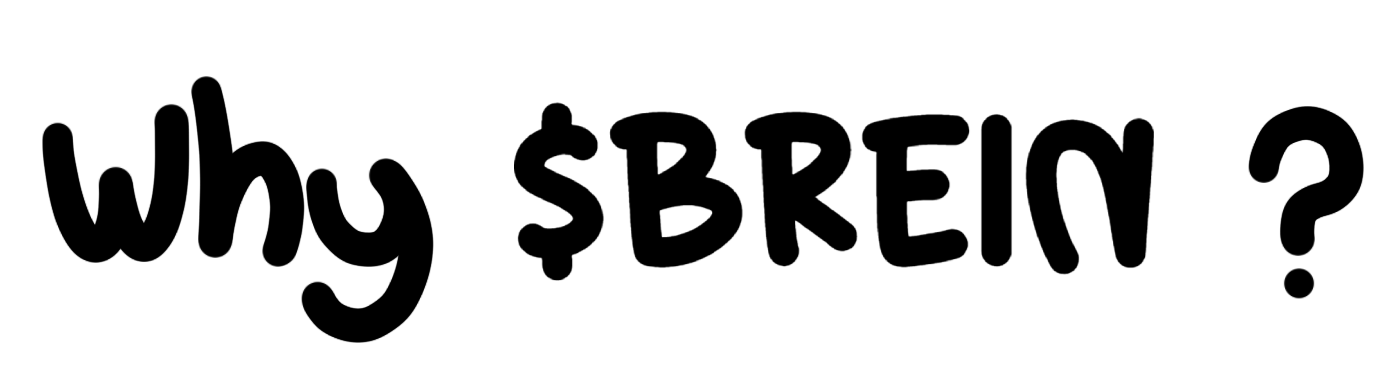
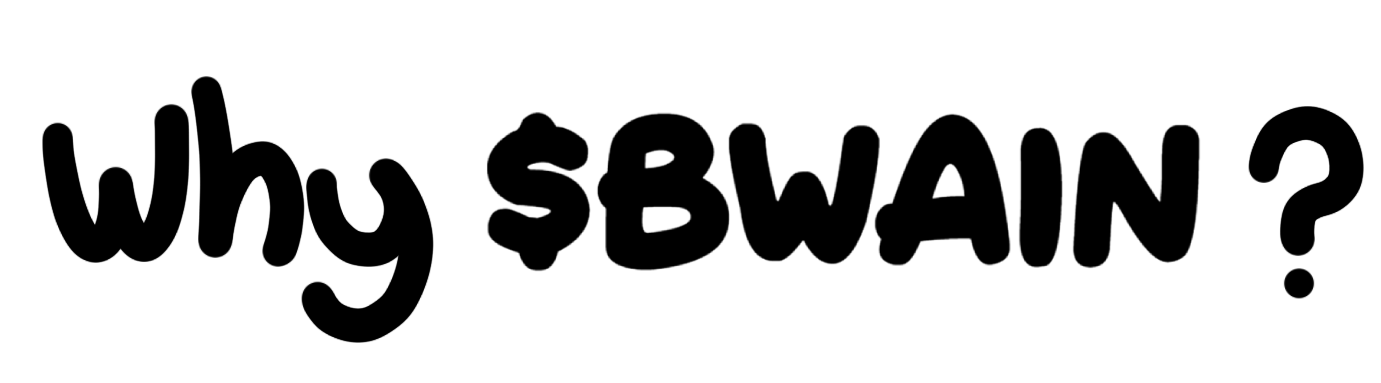
1

Changed region(s): [[0.3425, 0.2585, 0.8718, 0.7467]]

diff --git a/index.html b/index.html
@@ -9,8 +9,8 @@
 <meta http-equiv="Expires" content="0" />
     <link rel="icon" href="./assets/logo1.png" type="image/png">
     <link rel="apple-touch-icon" href="./assets/logo1.png">
-    <title>BREIN</title>
-    <meta name="description" content="BREIN is a cheeky, sarcastic genius representing your inner thoughts on the Solana network." />
+    <title>BWAIN</title>
+    <meta name="description" content="BWAIN is a cheeky, sarcastic genius representing your inner thoughts on the Solana network." />
   
     <link rel="preconnect" href="https://fonts.googleapis.com">
     <link rel="preconnect" href="https://fonts.gstatic.com" crossorigin>
@@ -25,48 +25,48 @@
       <div class="ticker-wrapper">
         <div class="ticker">
             <div class="ticker-move">
-                <span class="text">FxBy...<span style="color:#ff7bd3; font-weight: bold; text-transform: uppercase;">kump</span></span>
-                <span class="text">FxBy...<span style="color:#ff7bd3; font-weight: bold; text-transform: uppercase;">kump</span></span>
-                <span class="text">FxBy...<span style="color:#ff7bd3; font-weight: bold; text-transform: uppercase;">kump</span></span>
-                <span class="text">FxBy...<span style="color:#ff7bd3; font-weight: bold; text-transform: uppercase;">kump</span></span>
-                <span class="text">FxBy...<span style="color:#ff7bd3; font-weight: bold; text-transform: uppercase;">kump</span></span>
-                <span class="text">FxBy...<span style="color:#ff7bd3; font-weight: bold; text-transform: uppercase;">kump</span></span>
-                <span class="text">FxBy...<span style="color:#ff7bd3; font-weight: bold; text-transform: uppercase;">kump</span></span>
-                <span class="text">FxBy...<span style="color:#ff7bd3; font-weight: bold; text-transform: uppercase;">kump</span></span>
-                <span class="text">FxBy...<span style="color:#ff7bd3; font-weight: bold; text-transform: uppercase;">kump</span></span>
-                <span class="text">FxBy...<span style="color:#ff7bd3; font-weight: bold; text-transform: uppercase;">kump</span></span>
-                <span class="text">FxBy...<span style="color:#ff7bd3; font-weight: bold; text-transform: uppercase;">kump</span></span>
-                <span class="text">FxBy...<span style="color:#ff7bd3; font-weight: bold; text-transform: uppercase;">kump</span></span>
-                <span class="text">FxBy...<span style="color:#ff7bd3; font-weight: bold; text-transform: uppercase;">kump</span></span>
-                <span class="text">FxBy...<span style="color:#ff7bd3; font-weight: bold; text-transform: uppercase;">kump</span></span>
-                <span class="text">FxBy...<span style="color:#ff7bd3; font-weight: bold; text-transform: uppercase;">kump</span></span>
-                <span class="text">FxBy...<span style="color:#ff7bd3; font-weight: bold; text-transform: uppercase;">kump</span></span>
-                <span class="text">FxBy...<span style="color:#ff7bd3; font-weight: bold; text-transform: uppercase;">kump</span></span>
-                <span class="text">FxBy...<span style="color:#ff7bd3; font-weight: bold; text-transform: uppercase;">kump</span></span>
-                <span class="text">FxBy...<span style="color:#ff7bd3; font-weight: bold; text-transform: uppercase;">kump</span></span>
-                <span class="text">FxBy...<span style="color:#ff7bd3; font-weight: bold; text-transform: uppercase;">kump</span></span>
+                <span class="text">5jjY...<span style="color:#ff7bd3; font-weight: bold; text-transform: uppercase;">jump</span></span>
+                <span class="text">5jjY...<span style="color:#ff7bd3; font-weight: bold; text-transform: uppercase;">jump</span></span>
+                <span class="text">5jjY...<span style="color:#ff7bd3; font-weight: bold; text-transform: uppercase;">jump</span></span>
+                <span class="text">5jjY...<span style="color:#ff7bd3; font-weight: bold; text-transform: uppercase;">jump</span></span>
+                <span class="text">5jjY...<span style="color:#ff7bd3; font-weight: bold; text-transform: uppercase;">jump</span></span>
+                <span class="text">5jjY...<span style="color:#ff7bd3; font-weight: bold; text-transform: uppercase;">jump</span></span>
+                <span class="text">5jjY...<span style="color:#ff7bd3; font-weight: bold; text-transform: uppercase;">jump</span></span>
+                <span class="text">5jjY...<span style="color:#ff7bd3; font-weight: bold; text-transform: uppercase;">jump</span></span>
+                <span class="text">5jjY...<span style="color:#ff7bd3; font-weight: bold; text-transform: uppercase;">jump</span></span>
+                <span class="text">5jjY...<span style="color:#ff7bd3; font-weight: bold; text-transform: uppercase;">jump</span></span>
+                <span class="text">5jjY...<span style="color:#ff7bd3; font-weight: bold; text-transform: uppercase;">jump</span></span>
+                <span class="text">5jjY...<span style="color:#ff7bd3; font-weight: bold; text-transform: uppercase;">jump</span></span>
+                <span class="text">5jjY...<span style="color:#ff7bd3; font-weight: bold; text-transform: uppercase;">jump</span></span>
+                <span class="text">5jjY...<span style="color:#ff7bd3; font-weight: bold; text-transform: uppercase;">jump</span></span>
+                <span class="text">5jjY...<span style="color:#ff7bd3; font-weight: bold; text-transform: uppercase;">jump</span></span>
+                <span class="text">5jjY...<span style="color:#ff7bd3; font-weight: bold; text-transform: uppercase;">jump</span></span>
+                <span class="text">5jjY...<span style="color:#ff7bd3; font-weight: bold; text-transform: uppercase;">jump</span></span>
+                <span class="text">5jjY...<span style="color:#ff7bd3; font-weight: bold; text-transform: uppercase;">jump</span></span>
+                <span class="text">5jjY...<span style="color:#ff7bd3; font-weight: bold; text-transform: uppercase;">jump</span></span>
+                <span class="text">5jjY...<span style="color:#ff7bd3; font-weight: bold; text-transform: uppercase;">jump</span></span>
             </div>
             <DIV class="ticker-move">
-                <span class="text">FxBy...<span style="color:#ff7bd3; font-weight: bold; text-transform: uppercase;">kump</span></span>
-                <span class="text">FxBy...<span style="color:#ff7bd3; font-weight: bold; text-transform: uppercase;">kump</span></span>
-                <span class="text">FxBy...<span style="color:#ff7bd3; font-weight: bold; text-transform: uppercase;">kump</span></span>
-                <span class="text">FxBy...<span style="color:#ff7bd3; font-weight: bold; text-transform: uppercase;">kump</span></span>
-                <span class="text">FxBy...<span style="color:#ff7bd3; font-weight: bold; text-transform: uppercase;">kump</span></span>
-                <span class="text">FxBy...<span style="color:#ff7bd3; font-weight: bold; text-transform: uppercase;">kump</span></span>
-                <span class="text">FxBy...<span style="color:#ff7bd3; font-weight: bold; text-transform: uppercase;">kump</span></span>
-                <span class="text">FxBy...<span style="color:#ff7bd3; font-weight: bold; text-transform: uppercase;">kump</span></span>
-                <span class="text">FxBy...<span style="color:#ff7bd3; font-weight: bold; text-transform: uppercase;">kump</span></span>
-                <span class="text">FxBy...<span style="color:#ff7bd3; font-weight: bold; text-transform: uppercase;">kump</span></span>
-                <span class="text">FxBy...<span style="color:#ff7bd3; font-weight: bold; text-transform: uppercase;">kump</span></span>
-                <span class="text">FxBy...<span style="color:#ff7bd3; font-weight: bold; text-transform: uppercase;">kump</span></span>
-                <span class="text">FxBy...<span style="color:#ff7bd3; font-weight: bold; text-transform: uppercase;">kump</span></span>
-                <span class="text">FxBy...<span style="color:#ff7bd3; font-weight: bold; text-transform: uppercase;">kump</span></span>
-                <span class="text">FxBy...<span style="color:#ff7bd3; font-weight: bold; text-transform: uppercase;">kump</span></span>
-                <span class="text">FxBy...<span style="color:#ff7bd3; font-weight: bold; text-transform: uppercase;">kump</span></span>
-                <span class="text">FxBy...<span style="color:#ff7bd3; font-weight: bold; text-transform: uppercase;">kump</span></span>
-                <span class="text">FxBy...<span style="color:#ff7bd3; font-weight: bold; text-transform: uppercase;">kump</span></span>
-                <span class="text">FxBy...<span style="color:#ff7bd3; font-weight: bold; text-transform: uppercase;">kump</span></span>
-                <span class="text">FxBy...<span style="color:#ff7bd3; font-weight: bold; text-transform: uppercase;">kump</span></span>
+                <span class="text">5jjY...<span style="color:#ff7bd3; font-weight: bold; text-transform: uppercase;">jump</span></span>
+                <span class="text">5jjY...<span style="color:#ff7bd3; font-weight: bold; text-transform: uppercase;">jump</span></span>
+                <span class="text">5jjY...<span style="color:#ff7bd3; font-weight: bold; text-transform: uppercase;">jump</span></span>
+                <span class="text">5jjY...<span style="color:#ff7bd3; font-weight: bold; text-transform: uppercase;">jump</span></span>
+                <span class="text">5jjY...<span style="color:#ff7bd3; font-weight: bold; text-transform: uppercase;">jump</span></span>
+                <span class="text">5jjY...<span style="color:#ff7bd3; font-weight: bold; text-transform: uppercase;">jump</span></span>
+                <span class="text">5jjY...<span style="color:#ff7bd3; font-weight: bold; text-transform: uppercase;">jump</span></span>
+                <span class="text">5jjY...<span style="color:#ff7bd3; font-weight: bold; text-transform: uppercase;">jump</span></span>
+                <span class="text">5jjY...<span style="color:#ff7bd3; font-weight: bold; text-transform: uppercase;">jump</span></span>
+                <span class="text">5jjY...<span style="color:#ff7bd3; font-weight: bold; text-transform: uppercase;">jump</span></span>
+                <span class="text">5jjY...<span style="color:#ff7bd3; font-weight: bold; text-transform: uppercase;">jump</span></span>
+                <span class="text">5jjY...<span style="color:#ff7bd3; font-weight: bold; text-transform: uppercase;">jump</span></span>
+                <span class="text">5jjY...<span style="color:#ff7bd3; font-weight: bold; text-transform: uppercase;">jump</span></span>
+                <span class="text">5jjY...<span style="color:#ff7bd3; font-weight: bold; text-transform: uppercase;">jump</span></span>
+                <span class="text">5jjY...<span style="color:#ff7bd3; font-weight: bold; text-transform: uppercase;">jump</span></span>
+                <span class="text">5jjY...<span style="color:#ff7bd3; font-weight: bold; text-transform: uppercase;">jump</span></span>
+                <span class="text">5jjY...<span style="color:#ff7bd3; font-weight: bold; text-transform: uppercase;">jump</span></span>
+                <span class="text">5jjY...<span style="color:#ff7bd3; font-weight: bold; text-transform: uppercase;">jump</span></span>
+                <span class="text">5jjY...<span style="color:#ff7bd3; font-weight: bold; text-transform: uppercase;">jump</span></span>
+                <span class="text">5jjY...<span style="color:#ff7bd3; font-weight: bold; text-transform: uppercase;">jump</span></span>
             </div>
         </div>
       </div>
@@ -91,22 +91,22 @@
       <div class="social-links-and-ca-wrapper">
         <div class="social-links-wrapper">
 
-          <a class="social-link"  href="https://x.com/breinsol" target="_blank">
+          <a class="social-link"  href="https://x.com/bwainsol" target="_blank">
             <img class="social-img" src="./assets/social/x.svg"/>
           </a>
 
-          <a class="social-link"  href="https://t.me/breinsol" target="_blank">
+          <a class="social-link"  href="https://t.me/bwainsol" target="_blank">
             <img class="social-img" src="./assets/social/telegram.svg"/>
           </a>
           <a class="social-link"  href="#" target="_blank">
             <img class="social-img" src="./assets/DEXTools Isotype_black (alternative color).png"/>
           </a>
-            <a class="social-link"  href="https://pump.fun/FxBy8UKTCQHvP69seoSEAgDQksJdL11yx2hmHc8Kump" target="_blank">
+            <a class="social-link"  href="https://pump.fun/5jjYZhjgRndm8TBszvxgpEDR8o74aZxNB5ThEa6jump" target="_blank">
             <img style="filter: brightness(0%);" class="social-img" src="./assets/pump.png"/>
           </a>
         </div>
         <div class="ca">
-          FxBy8UKTCQHvP69seoSEAgDQksJdL11yx2hmHc8Kump
+          5jjYZhjgRndm8TBszvxgpEDR8o74aZxNB5ThEa6jump
         </div>
       </div>
 
@@ -117,8 +117,8 @@
           <img class="brain-text-logo shaker" alt="brain-text-logo" src="./assets/brain_header.png" />
         </div>
 
-        <span class="brain-text fade-in-element">BREIN is a cheeky, sarcastic genius representing your inner thoughts on the Solana network.</span>
-        <a href="https://pump.fun/FxBy8UKTCQHvP69seoSEAgDQksJdL11yx2hmHc8Kump" target="_blank" class="buy-brain-button"><img src="./assets/buy_brain_button.png" /></a>
+        <span class="brain-text fade-in-element">BWAIN is a cheeky, sarcastic genius representing your inner thoughts on the Solana network.</span>
+        <a href="https://pump.fun/5jjYZhjgRndm8TBszvxgpEDR8o74aZxNB5ThEa6jump" target="_blank" class="buy-brain-button"><img src="./assets/buy_brain_button.png" /></a>
       </div>
     </section>
     <section class="why-brain-wrapper">
@@ -126,10 +126,10 @@
         <div class="text-warpper">
           <img class="section-title why-brain-title fade-in-element" src="./assets/why_brain.png" />
           <br>
-            Dis smol BREIN sez: "BUY NOW!"</br>
-            Dis big BREIN sez: "MOON SOON!</br>
+            Dis smol BWAIN sez: "BUY NOW!"</br>
+            Dis big BWAIN sez: "MOON SOON!</br>
           </br>
-            Why $BREIN Coin?</br>
+            Why $BWAIN Coin?</br>
           </br>
             MOON! We go zoom zoom 🚀</br>
             DIAMOND HANDS! No paper hands, no weak sauce 💎✋</br>
@@ -150,48 +150,48 @@
       <div class="ticker-wrapper dark">
         <div class="ticker">
             <div class="ticker-move">
-                <span class="text">$BREIN</span>
-                <span class="text">$BREIN</span>
-                <span class="text">$BREIN</span>
-                <span class="text">$BREIN</span>
-                <span class="text">$BREIN</span>
-                <span class="text">$BREIN</span>
-                <span class="text">$BREIN</span>
-                <span class="text">$BREIN</span>
-                <span class="text">$BREIN</span>
-                <span class="text">$BREIN</span>
-                <span class="text">$BREIN</span>
-                <span class="text">$BREIN</span>
-                <span class="text">$BREIN</span>
-                <span class="text">$BREIN</span>
-                <span class="text">$BREIN</span>
-                <span class="text">$BREIN</span>
-                <span class="text">$BREIN</span>
-                <span class="text">$BREIN</span>
-                <span class="text">$BREIN</span>
-                <span class="text">$BREIN</span>
+                <span class="text">$BWAIN</span>
+                <span class="text">$BWAIN</span>
+                <span class="text">$BWAIN</span>
+                <span class="text">$BWAIN</span>
+                <span class="text">$BWAIN</span>
+                <span class="text">$BWAIN</span>
+                <span class="text">$BWAIN</span>
+                <span class="text">$BWAIN</span>
+                <span class="text">$BWAIN</span>
+                <span class="text">$BWAIN</span>
+                <span class="text">$BWAIN</span>
+                <span class="text">$BWAIN</span>
+                <span class="text">$BWAIN</span>
+                <span class="text">$BWAIN</span>
+                <span class="text">$BWAIN</span>
+                <span class="text">$BWAIN</span>
+                <span class="text">$BWAIN</span>
+                <span class="text">$BWAIN</span>
+                <span class="text">$BWAIN</span>
+                <span class="text">$BWAIN</span>
             </div>
             <div class="ticker-move">
-                <span class="text">$BREIN</span>
-                <span class="text">$BREIN</span>
-                <span class="text">$BREIN</span>
-                <span class="text">$BREIN</span>
-                <span class="text">$BREIN</span>
-                <span class="text">$BREIN</span>
-                <span class="text">$BREIN</span>
-                <span class="text">$BREIN</span>
-                <span class="text">$BREIN</span>
-                <span class="text">$BREIN</span>
-                <span class="text">$BREIN</span>
-                <span class="text">$BREIN</span>
-                <span class="text">$BREIN</span>
-                <span class="text">$BREIN</span>
-                <span class="text">$BREIN</span>
-                <span class="text">$BREIN</span>
-                <span class="text">$BREIN</span>
-                <span class="text">$BREIN</span>
-                <span class="text">$BREIN</span>
-                <span class="text">$BREIN</span>
+                <span class="text">$BWAIN</span>
+                <span class="text">$BWAIN</span>
+                <span class="text">$BWAIN</span>
+                <span class="text">$BWAIN</span>
+                <span class="text">$BWAIN</span>
+                <span class="text">$BWAIN</span>
+                <span class="text">$BWAIN</span>
+                <span class="text">$BWAIN</span>
+                <span class="text">$BWAIN</span>
+                <span class="text">$BWAIN</span>
+                <span class="text">$BWAIN</span>
+                <span class="text">$BWAIN</span>
+                <span class="text">$BWAIN</span>
+                <span class="text">$BWAIN</span>
+                <span class="text">$BWAIN</span>
+                <span class="text">$BWAIN</span>
+                <span class="text">$BWAIN</span>
+                <span class="text">$BWAIN</span>
+                <span class="text">$BWAIN</span>
+                <span class="text">$BWAIN</span>
             </div>
         </div>
       </div>
@@ -232,13 +232,13 @@
 
         <div class="step">
           <div class="step-title-and-text">
-            <h3>3. SWAP $SOL FOR $BREIN</h3>
-            <p>Click on the button below, connect your wallet, and press SWAP! BOOM! <strong>You are a $BREIN holder!</strong></p>
+            <h3>3. SWAP $SOL FOR $BWAIN</h3>
+            <p>Click on the button below, connect your wallet, and press SWAP! BOOM! <strong>You are a $BWAIN holder!</strong></p>
             <p></p>
-              <a href="https://pump.fun/FxBy8UKTCQHvP69seoSEAgDQksJdL11yx2hmHc8Kump" target="_blank" class="buy-brain-instep">Buy $BREIN</a>
+              <a href="https://pump.fun/5jjYZhjgRndm8TBszvxgpEDR8o74aZxNB5ThEa6jump" target="_blank" class="buy-brain-instep">Buy $BWAIN</a>
           </div>
 
-          <img src="./assets/c.png" alt="Swap $SOL for $BREIN">
+          <img src="./assets/c.png" alt="Swap $SOL for $BWAIN">
         </div>
     </div>
     </section>
@@ -248,11 +248,11 @@
 
       <div class="social-links-wrapper-bottom">
 
-        <a class="social-link" href="https://x.com/breinsol" target="_blank">
+        <a class="social-link" href="https://x.com/bwainsol" target="_blank">
           <img class="social-img" src="./assets/social/x-w.svg"/>
         </a>
 
-        <a class="social-link" href="https://t.me/breinsol" target="_blank">
+        <a class="social-link" href="https://t.me/bwainsol" target="_blank">
           <img class="social-img" src="./assets/social/telegram-w.svg"/>
         </a>
       </div>
@@ -268,7 +268,7 @@
     </section>
     <div class="footer">
       <span class="disclaimer">
-        Legal Disclaimer: $BREIN is a meme coin with no value or financial return. $BREIN is purely for entertainment. By purchasing $BREIN, you acknowledge this disclaimer.
+        Legal Disclaimer: $BWAIN is a meme coin with no value or financial return. $BWAIN is purely for entertainment. By purchasing $BWAIN, you acknowledge this disclaimer.
       </span>
     </div>
     <script type="text/javascript" src="./script.js?v=1.0.1"></script>
